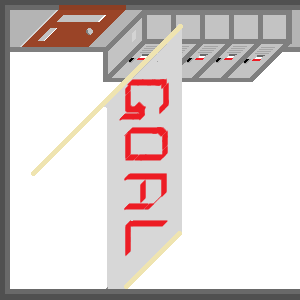
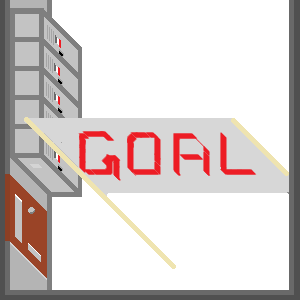
rotate finishing tile for maze, removing tile squares in top right corner

diff --git a/Thats_so_Ravens/MazeApp/labyrinth.py b/Thats_so_Ravens/MazeApp/labyrinth.py
@@ -182,3 +182,5 @@ class Labyrinth():
             self.grid[0][-i] = 9
         self.grid[0][0] = 7
         self.grid[-1][-1] = 8
+        for i in (0, 3):
+            self.grid[-i][0]
